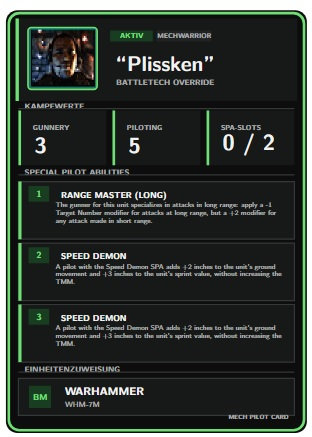
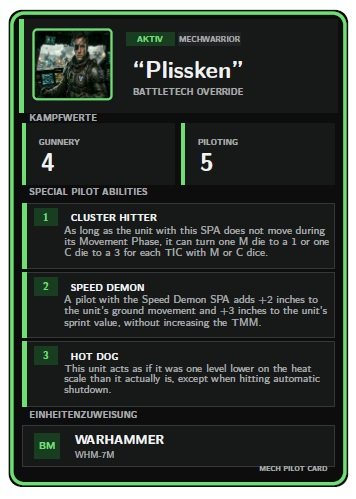
Anpassungen

Changed region(s): [[0.0, 0.0, 1.0, 1.0], [0.375, 0.119, 0.6923, 0.2082]]

diff --git a/kartenlayout.tex b/kartenlayout.tex
@@ -123,20 +123,17 @@
 
     % Beschreibung der Fertigkeit
     % Lange Texte werden automatisch verkleinert.
+% Beschreibung der Fertigkeit
     \node[
       anchor=north west,
       inner sep=0pt,
-      text=TextMuted
+      text=TextMuted,
+      text width=49.4mm,
+      align=left,
+      font=\fontsize{5.5}{2.2}\selectfont
     ] at (10.6,{#2-4.25}) {%
-      \begin{adjustbox}{
-        max totalsize={47.7mm}{6.7mm}
-      }
-        \begin{minipage}{47.7mm}
-          \RaggedRight
-          \fontsize{4.05}{4.65}\selectfont
-          \SPAText{#4}
-        \end{minipage}
-      \end{adjustbox}%
+      \RaggedRight
+      \SPAText{#4}%
     };
 
   \fi
@@ -283,15 +280,15 @@
     \SmallCapsLabel{Kampfwerte}%
   };
 
-  \draw[
-    LineGray,
-    line width=0.25mm
-  ]
-    (3.0,68.0) -- (60.5,68.0);
+  %\draw[
+   % LineGray,
+  %  line width=0.25mm
+%  ]
+ %   (3.0,68.0) -- (60.5,68.0);
 
-  \StatBox{3.0}{18.3}{Gunnery}{\Gunnery}
-  \StatBox{22.6}{18.3}{Piloting}{\Piloting}
-  \StatBox{42.2}{18.3}{SPA-Slots}{\SPASlots}
+  % Zwei gleich breite Felder fuer Gunnery und Piloting
+  \StatBox{3.0}{28.1}{Gunnery}{\Gunnery}
+  \StatBox{32.4}{28.1}{Piloting}{\Piloting}
 
   % ---------------------------------------------------------------------------
   % SPECIAL PILOT ABILITIES
@@ -303,11 +300,11 @@
     \SmallCapsLabel{Special Pilot Abilities}%
   };
 
-  \draw[
-    LineGray,
-    line width=0.25mm
-  ]
-    (3.0,54.2) -- (60.5,54.2);
+ % \draw[
+  %  LineGray,
+  %  line width=0.25mm
+%  ]
+  %  (3.0,54.2) -- (60.5,54.2);
 
   % Drei dauerhaft sichtbare Fertigkeitsslots
   \AbilityBox{40.8}{52.8}{1}{\AbilityOne}
@@ -324,11 +321,11 @@
     \SmallCapsLabel{Einheitenzuweisung}%
   };
 
-  \draw[
-    LineGray,
-    line width=0.25mm
-  ]
-    (3.0,13.1) -- (60.5,13.1);
+  %\draw[
+  %  LineGray,
+  %  line width=0.25mm
+ % ]
+  %  (3.0,13.1) -- (60.5,13.1);
 
   % Kompakteres Feld fuer die zugewiesene Einheit
   \fill[Panel]

diff --git a/vorlage1.tex b/vorlage1.tex
@@ -7,16 +7,15 @@
 \def\PilotName{Plissken}
 \def\PilotStatus{AKTIV}
 \def\PilotRole{MECHWARRIOR}
-\def\PilotImage{Bilder/1.jpg}
+\def\PilotImage{Bilder/portrait_1778788874476.jpeg}
 
 \def\Gunnery{4}
 \def\Piloting{5}
-\def\SPASlots{0 / 2}
 
 % Fertigkeiten aus spa_fertigkeiten.tex auswaehlen:
-\def\AbilityOne{\RangeMasterLong}
+\def\AbilityOne{\ClusterHitter}
 \def\AbilityTwo{\SpeedDemon}
-\def\AbilityThree{\SpeedDemon}
+\def\AbilityThree{\HotDog}
 
 \def\AssignedUnit{WARHAMMER}
 \def\AssignedVariant{WHM-7M}

diff --git a/spa_fertigkeiten.tex b/spa_fertigkeiten.tex
@@ -55,7 +55,7 @@
 % ----------------------------------------------------------------------------
 
 \DeclareSPA{BloodStalker}{1}{Blood Stalker}{%
-A pilot with this SPA could be said to have a one-tracked mind, and focuses all of their energies on the destruction of only one enemy at a time. The Blood Stalker unit must designate a chosen enemy at the start of each game. All attacks against the chosen enemy receive a -1 Target Number modifier, but all attacks made against any other enemies suffer a +2 Target Number modifier until the chosen enemy is destroyed. If the Blood Stalker starts its Movement with its chosen enemy out of line of sight or destroyed, the Blood Stalker may choose a new enemy to stalk.%
+At game start, designate one enemy. Attacks against it receive a -1 Target Number modifier; attacks against all other enemies suffer a +2 modifier. At the start of Movement, designate a new enemy if the current target is destroyed or out of line of sight.%
 }
 
 \DeclareSPA{ClusterHitter}{1}{Cluster Hitter}{%
@@ -83,7 +83,7 @@ This unit reduces the cost for moving through all woods and jungle terrain types
 }
 
 \DeclareSPA{MeleeMaster}{1}{Melee Master}{%
-A pilot with this SPA adds additional damage equal to half their unit's Size value (rounded up), upon delivering a successful physical attack of any kind, including punch, kick, melee, charging, and Death from Above attacks.%
+Add additional damage equal to half their unit's Size value (rounded up), upon delivering a successful physical attack of any kind, including punch, kick, melee, charging, and Death from Above attacks.%
 }
 
 \DeclareSPA{MeleeSpecialist}{1}{Melee Specialist}{%

diff --git a/vorlage2.tex b/vorlage2.tex
@@ -11,12 +11,11 @@
 
 \def\Gunnery{4}
 \def\Piloting{5}
-\def\SPASlots{0 / 2}
 
 % Fertigkeiten aus spa_fertigkeiten.tex auswaehlen:
 \def\AbilityOne{\RangeMasterLong}
 \def\AbilityTwo{\SpeedDemon}
-\def\AbilityThree{}
+\def\AbilityThree{\MeleeMaster}
 
 \def\AssignedUnit{WARHAMMER}
 \def\AssignedVariant{WHM-7M}

diff --git a/vorlage3.tex b/vorlage3.tex
@@ -11,7 +11,6 @@
 
 \def\Gunnery{4}
 \def\Piloting{5}
-\def\SPASlots{0 / 2}
 
 % Fertigkeiten aus spa_fertigkeiten.tex auswaehlen:
 \def\AbilityOne{\RangeMasterLong}

diff --git a/vorlage4.tex b/vorlage4.tex
@@ -11,7 +11,6 @@
 
 \def\Gunnery{4}
 \def\Piloting{5}
-\def\SPASlots{0 / 2}
 
 % Fertigkeiten aus spa_fertigkeiten.tex auswaehlen:
 \def\AbilityOne{\RangeMasterLong}

diff --git a/vorlage5.tex b/vorlage5.tex
@@ -11,7 +11,6 @@
 
 \def\Gunnery{4}
 \def\Piloting{5}
-\def\SPASlots{0 / 2}
 
 % Fertigkeiten aus spa_fertigkeiten.tex auswaehlen:
 \def\AbilityOne{\RangeMasterLong}

diff --git a/vorlage6.tex b/vorlage6.tex
@@ -11,7 +11,6 @@
 
 \def\Gunnery{4}
 \def\Piloting{5}
-\def\SPASlots{0 / 2}
 
 % Fertigkeiten aus spa_fertigkeiten.tex auswaehlen:
 \def\AbilityOne{\RangeMasterLong}

diff --git a/vorlage7.tex b/vorlage7.tex
@@ -11,7 +11,6 @@
 
 \def\Gunnery{4}
 \def\Piloting{5}
-\def\SPASlots{0 / 2}
 
 % Fertigkeiten aus spa_fertigkeiten.tex auswaehlen:
 \def\AbilityOne{\RangeMasterLong}

diff --git a/vorlage8.tex b/vorlage8.tex
@@ -11,7 +11,6 @@
 
 \def\Gunnery{4}
 \def\Piloting{5}
-\def\SPASlots{0 / 2}
 
 % Fertigkeiten aus spa_fertigkeiten.tex auswaehlen:
 \def\AbilityOne{\RangeMasterLong}

diff --git a/vorlage9.tex b/vorlage9.tex
@@ -11,7 +11,6 @@
 
 \def\Gunnery{4}
 \def\Piloting{5}
-\def\SPASlots{0 / 2}
 
 % Fertigkeiten aus spa_fertigkeiten.tex auswaehlen:
 \def\AbilityOne{\RangeMasterLong}

diff --git a/README.md b/README.md
@@ -2,32 +2,11 @@
 
 ![Muster einer fertigen Mech-Pilot-Karte](Bilder/Muster.jpg)
 
-Mit dieser LaTeX-Vorlage können Mech-Pilot-Karten für **BattleTech Override** erstellt und gemeinsam auf einer A4-Seite gedruckt werden.
+Mit dieser LaTeX-Vorlage können Mech-Pilot-Karten für **BattleTech Override** erstellt werden.
 
 Eine Karte besitzt das Standard-Trading-Card-Format von **63,5 × 88,9 mm**. Auf eine A4-Seite passen maximal **neun Karten** in einem Raster aus drei Spalten und drei Reihen.
 
-## Projektstruktur
 
-```text
-.
-├── Bilder/
-│   ├── Muster.jpg
-│   └── plissken.png
-├── main.tex
-├── mechpilot_card.tex
-├── kartenlayout.tex
-├── spa_fertigkeiten.tex
-├── vorlage1.tex
-├── vorlage2.tex
-├── vorlage3.tex
-├── vorlage4.tex
-├── vorlage5.tex
-├── vorlage6.tex
-├── vorlage7.tex
-├── vorlage8.tex
-├── vorlage9.tex
-└── README.md
-```
 
 ## Dateien
 
@@ -130,7 +109,7 @@ Jede Karte besitzt drei sichtbare Fertigkeitsslots:
 \def\AbilityThree{}
 ```
 
-Wird keine Fertigkeit ausgewählt, bleibt das jeweilige Feld leer. Der Rahmen und die Slotnummer bleiben trotzdem sichtbar.
+Wird keine Fertigkeit ausgewählt, bleibt das jeweilige Feld leer.
 
 ### Drei belegte Slots
 
@@ -285,21 +264,6 @@ Beim Drucken müssen folgende Einstellungen verwendet werden:
 
 Optionen wie „An Seite anpassen“, „Verkleinern“ oder „Übergroße Seiten anpassen“ dürfen nicht aktiviert sein. Andernfalls stimmt das Kartenformat von 63,5 × 88,9 mm nicht mehr.
 
-## Musterbild ändern
-
-Das Bild unter der Überschrift dieser README liegt unter:
-
-```text
-Bilder/Muster.jpg
-```
-
-Es kann durch ein anderes Bild ersetzt werden, solange Dateiname und Pfad gleich bleiben.
-
-Alternativ kann der Pfad am Anfang dieser README geändert werden:
-
-```markdown
-![Muster einer fertigen Mech-Pilot-Karte](Bilder/Muster.jpg)
-```
 
 ## Credits
 - Dizzy: BT Verwaltungs App und Hinterlands Override App